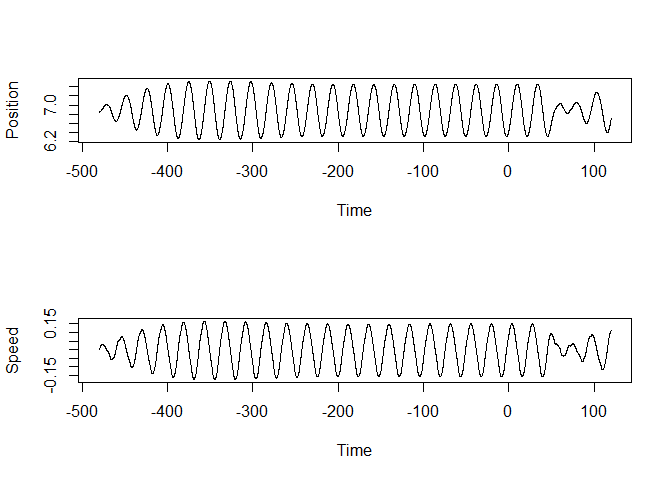
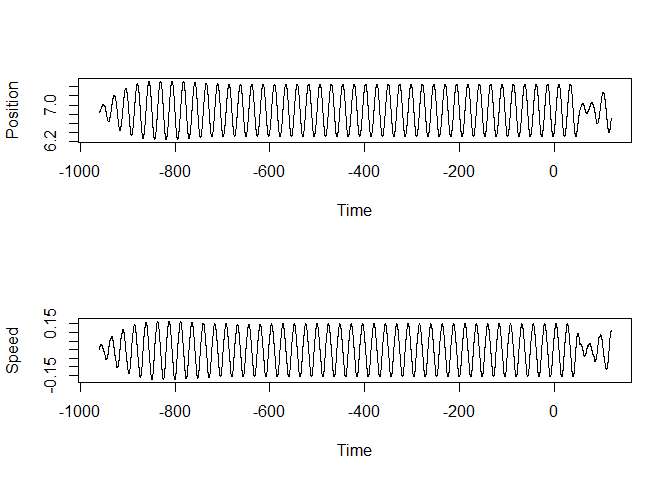
update readme

diff --git a/README.md b/README.md
@@ -113,15 +113,14 @@ model<-FixIntercept(model,MeanGeneExprInBaseline)
 model<-AddForce(model,"Wake")
 model<-AddForce(model,"Sleep")
 
-
 # Start is set at intercept with speed of 0
 model<-SetYinitMode(model,mode = "Intercept_0",values = c(0,48))
 # We replicate baseline for 20 day
-model<-ReplicateDrivingForce(model,c(0.1,24.0),20)
+model<-ReplicateDrivingForce(model,c(0.1,24.0),40)
 # A sin-wave force is applied with a period of 24h
 model<-AddSinF(model,FixPer = 24)
 # Compute the fit using RSS
-model<-SetFittingValue(model,value = "RSS")
+model<-SetFittingValue(model,value = "NLL")
 # Penalize the fitting for unstable value for 10 replicated days
 model<-PenalizeUnstableFit(model,value = T,PredictedValueInterval = c(0,48), StabilityDayCheck = 10)
 ```
@@ -155,19 +154,17 @@ Fit data with optimx
 # Get objective function
 objfun<-SWDMrGetEvalFun(model)
 # Limits of the model
-params<-c(Wake=0,Sleep=0,loggamma=log(1e-1),omega=2*pi/23.8,AmpSin=1e-2,PhiSin=2.5)
-lower<-c(Wake=-Inf,Sleep=-Inf,loggamma=-Inf,omega=2*pi/30,AmpSin=0,PhiSin=0)
-upper<-c(Wake=Inf,Sleep=Inf,loggamma=Inf,omega=2*pi/18,AmpSin=Inf,PhiSin=2*pi)
+params<-c(Wake=0,Sleep=0,loggamma=log(1e-1),omega=2*pi/23.8,AmpSin=0,PhiSin=pi)
 
 # Fit
-optimxres<-optimx(params,objfun,method=c("nlminb"),lower = lower,upper=upper)
+optimxres<-optimx(params,objfun,method=c("nlminb"))
 optimxres
 ```
 
-    ##              Wake     Sleep loggamma     omega      AmpSin   PhiSin
-    ## nlminb -0.1338645 0.2065329 -3.63269 0.2437751 0.008298693 2.665784
-    ##           value fevals gevals niter convcode kkt1 kkt2 xtime
-    ## nlminb 1.545931     63    276    41        0 TRUE TRUE  0.61
+    ##              Wake     Sleep  loggamma    omega      AmpSin  PhiSin
+    ## nlminb -0.1342697 0.2071016 -3.623463 0.243785 0.008296072 2.66353
+    ##            value fevals gevals niter convcode kkt1  kkt2 xtime
+    ## nlminb -40.31794     84    295    43        0 TRUE FALSE  1.09
 
 Get fit
 
@@ -180,16 +177,16 @@ plot(out$time,out$y2,type="l",ylab="Speed",xlab="Time")
 
 ![](README_files/figure-markdown_github/unnamed-chunk-9-1.png)
 
-Get some statistics for the fit
+Get some statistics for the fit (R2, and AdjR2 are not valid measure ! Do not use them !)
 
 ``` r
 SWDMrStats(model,out,detailed = T)
 ```
 
-    ##   Variable     RSS       NLL      BIC BIC_flat  BayesFactor       AIC
-    ## 1    Nr1d1 1.54593 -21.05178 -13.9261 46.52304 7.475457e-14 -187.0247
+    ##   Variable      RSS       NLL       BIC BIC_flat  BayesFactor       AIC
+    ## 1    Nr1d1 1.546095 -21.04878 -13.92009 46.52304 1.333699e+13 -187.0187
     ##          R2     AdjR2    Fstat       pvalF numdf rdf  n k ErrorVariance
-    ## 1 0.7628008 0.7390809 32.15866 1.64313e-14     5  50 56 6    0.02760588
+    ## 1 0.7627754 0.7390529 32.15415 1.64313e-14     5  50 56 6    0.02760885
 
 Plot fit and gene expression using ggplot2
 
@@ -198,6 +195,23 @@ SWDMr:::StandardFittingPlot(model,optimxres[1,])
 ```
 
 ![](README_files/figure-markdown_github/unnamed-chunk-11-1.png)
+
+Mean force applied by each force on the oscillator
+
+``` r
+Fmod<-SWDMr:::AllForceApplied(model,optimxres)
+sumF<-apply(abs(Fmod[,seq(2,6)]),1,sum)
+Fmod[,seq(2,6)]<-abs(Fmod[,seq(2,6)])/sumF
+apply(Fmod[Fmod$Time>0,],2,mean)
+```
+
+    ##         Time         Wake        Sleep         SinF FstringConst 
+    ##  60.05000000   0.21903359   0.24644419   0.13763444   0.34590713 
+    ##        Fdamp 
+    ##   0.05098063
+
+Empirical bootstrap
+===================
 
 Compute confidence interval using empirical bootstrap
 
@@ -229,7 +243,8 @@ EmpBoot<-function(model, optimxres, params, upper, lower, nboot = 100, NCORES = 
     n<-length(model2@Gexp[,1])
     model2@Gexp[,1]<- predval + sqrt(stats[["ErrorVariance"]])*rnorm(n)
     objfunboot<-SWDMrGetEvalFun(model2)
-    optimxresboot<-optimx(paramsboot,objfunboot,method=c("nlminb"),lower = lower,upper=upper)
+    #optimxresboot<-optimx(paramsboot,objfunboot,method=c("nlminb"),lower = lower,upper=upper)
+    optimxresboot<-optimx(paramsboot,objfunboot,method=c("nlminb"))
     
     return(as.numeric(optimxresboot[1,names(params)]))
   }
@@ -267,30 +282,26 @@ EmpBoot<-function(model, optimxres, params, upper, lower, nboot = 100, NCORES = 
 
   return(list(B=B,Y=Y,F=F,CI=ci.mc,Est.pvals=Est.pvals,df.mc=df.mc))
 }
+```
 
-EmpBootres<-EmpBoot(model,optimxres,params,upper,lower,nboot=100)
+Confidence intervals
+
+``` r
+EmpBootres<-EmpBoot(model,optimxres,params,upper,lower,nboot=200)
 EmpBootres$CI
 ```
 
-    ##                 2.5%       97.5%
-    ## Wake     -0.24219532 -0.09455252
-    ## Sleep     0.14951609  0.32472725
-    ## loggamma -4.22821840 -2.74486673
-    ## omega     0.23503532  0.25340632
-    ## AmpSin    0.00630117  0.01035181
-    ## PhiSin    2.32597939  2.97287549
+    ##                  2.5%       97.5%
+    ## Wake     -0.227014007 -0.08296958
+    ## Sleep     0.139868370  0.31326177
+    ## loggamma -4.821498815 -2.70022502
+    ## omega     0.232900804  0.25744868
+    ## AmpSin    0.005624625  0.01092733
+    ## PhiSin    2.254397922  2.98233522
 
 ``` r
-EmpBootres$Est.pvals
+#EmpBootres$Est.pvals
 ```
-
-    ##              Estimate          SE     Tstat      p.value
-    ## Wake     -0.133864464 0.038961462 -3.435817 1.182974e-03
-    ## Sleep     0.206532924 0.046494522  4.442092 4.807501e-05
-    ## loggamma -3.632690235 0.423803002 -8.571648 1.877543e-11
-    ## omega     0.243775139 0.004983053 48.920844 0.000000e+00
-    ## AmpSin    0.008298693 0.001135900  7.305833 1.790384e-09
-    ## PhiSin    2.665783946 0.167902374 15.876988 0.000000e+00
 
 ``` r
 p<-SWDMr:::StandardFittingPlot(model,optimxres[1,])
@@ -299,34 +310,7 @@ p <- p + annotate("ribbon",x=EmpBootres$df.mc$Time, ymin=EmpBootres$df.mc$lwr.co
 p
 ```
 
-![](README_files/figure-markdown_github/unnamed-chunk-13-1.png)
-
-``` r
-#Mean Force applied
-
-Fmod<-SWDMr:::AllForceApplied(model,optimxres[1,])
-pctFmod<-Fmod
-sumF<-apply(abs(pctFmod[,seq(2,5)]),1,sum)
-pctFmod[,seq(2,5)]<-abs(pctFmod[,seq(2,5)])/sumF
-head(pctFmod)
-```
-
-    ##     Time      Wake     Sleep      SinF FstringConst        Fdamp
-    ## 1 -479.9 0.4536661 0.3610213 0.1852851 2.750075e-05 4.762287e-06
-    ## 2 -479.8 0.4133653 0.4130123 0.1734895 1.329944e-04 1.373346e-05
-    ## 3 -479.7 0.3700768 0.4680347 0.1615250 3.635297e-04 2.730707e-05
-    ## 4 -479.6 0.3129342 0.5376112 0.1486841 7.705054e-04 4.716335e-05
-    ## 5 -479.5 0.2164140 0.6486834 0.1334894 1.413160e-03 7.838720e-05
-    ## 6 -479.4 0.1386800 0.7389431 0.1199814 2.395454e-03 1.193020e-04
-
-``` r
-apply(pctFmod[pctFmod$Time>0,],2,mean)
-```
-
-    ##         Time         Wake        Sleep         SinF FstringConst 
-    ## 6.005000e+01 2.336547e-01 2.591884e-01 1.444320e-01 3.627249e-01 
-    ##        Fdamp 
-    ## 6.060075e-05
+![](README_files/figure-markdown_github/unnamed-chunk-15-1.png)
 
 ``` r
 sessionInfo()
